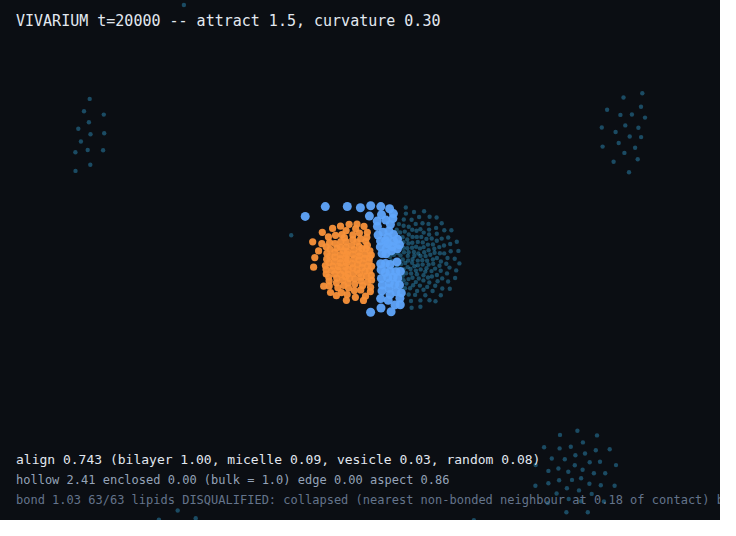
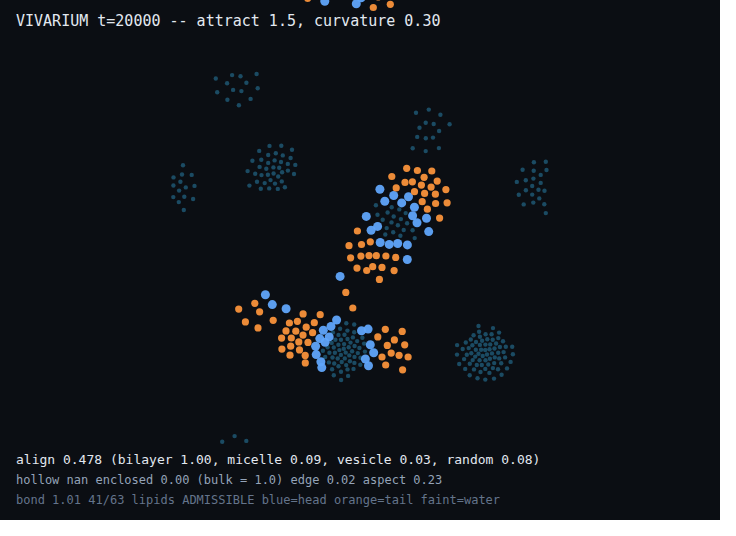
vivarium: correct the curvature sign -- dirn IS YLZ's r_hat, negating it inverted the leaflets
With the max-preserving form in place the run produced align 0.904 against a bilayer reference of
1.00, i.e. a strong bilayer signature, but the render showed the leaflets INVERTED: heads meeting in
the middle and tails facing the water. That is a reverse bilayer, not a membrane in solvent.

Traced to the direction convention. Vivarium's `dirn` is (p_i - p_j)/|.|, which is already YLZ's
r_hat_ij = (r_i - r_j)/r, and is the same convention under which beta = +0.1 gave heads outward
1.000 in the two-species reference. The implementation negated it, flipping the odd term.

The alignment metric cannot distinguish an inverted bilayer from a correct one -- both are two
opposed leaflets -- so the sign now has its own test. The first version of that test asserted on the
SOURCE TEXT ("rh = dirn" in pack.py), which is reward hacking and also broke in the bazel sandbox
where the file is not at a relative path. Replaced with a behavioural test: two lipids side by side,
heads tilted apart versus tilted together, asserting positive curvature scores the splayed pair
higher.

Claude-Session: https://claude.ai/code/session_017Ld9DgPtjwxx7hhxTDgxgL

diff --git a/projects/vivarium/tests/test_curvature.py b/projects/vivarium/tests/test_curvature.py
@@ -141,3 +141,38 @@ def test_engine_weight_never_exceeds_one():
     dist = np.sqrt((delta ** 2).sum(-1) + 1e-12)
     w = e._curvature_weight(delta / dist[..., None])
     assert w.max() <= 1.0 + 1e-9, f"weight exceeds 1 ({w.max():.4f}); cohesion can grow"
+
+
+def test_positive_curvature_prefers_heads_splayed_outward():
+    """Sign convention, tested by BEHAVIOUR rather than by reading the source.
+
+    A negated r_hat still yields a strong bilayer signature -- align 0.904 was measured -- but with
+    the leaflets INVERTED: heads meeting in the middle, tails facing the solvent. The alignment
+    metric cannot tell those apart, so the sign needs its own assertion.
+
+    Two lipids side by side along x. SPLAYED means each head tilts away from the other (the convex
+    arrangement a vesicle's outer leaflet has); CONVERGENT means each head tilts toward the other.
+    A positive curvature must score the splayed pair higher.
+    """
+    e = _molecular(0.25)
+    pd = e.pd
+    a, b = e._mol[0], e._mol[1]
+
+    def weight(tilt):
+        P = e.X[:, :pd]
+        for mol, cx, sgn in ((a, -1.0, -1.0), (b, +1.0, +1.0)):
+            axis = np.zeros(pd)
+            axis[0] = sgn * np.sin(tilt)
+            axis[1] = np.cos(tilt)
+            P[mol[0]] = np.array([cx, 0.0])[:pd] + 0.5 * axis
+            for k in mol[1:]:
+                P[k] = np.array([cx, 0.0])[:pd] - 0.5 * axis
+        delta = P[:, None, :] - P[None, :, :]
+        delta -= e.L * np.round(delta / e.L)
+        dist = np.sqrt((delta ** 2).sum(-1) + 1e-12)
+        return e._curvature_weight(delta / dist[..., None])[a[0], b[0]]
+
+    splayed, convergent = weight(+0.5), weight(-0.5)
+    assert splayed > convergent, (
+        f"positive curvature must favour heads splayed outward "
+        f"(splayed {splayed:.4f} vs convergent {convergent:.4f}); the r_hat sign is inverted")

diff --git a/projects/vivarium/pack.py b/projects/vivarium/pack.py
@@ -358,7 +358,12 @@ class PackEngine:
         u = self._axis_signed()
         has = (np.linalg.norm(u, axis=1) > 0.0)
         both = has[:, None] & has[None, :]
-        rh = -dirn                                   # unit vector from i toward j
+        # `dirn` is (p_i - p_j)/|.|, which is ALREADY YLZ's r_hat_ij = (r_i - r_j)/r and matches the
+        # convention under which beta = +0.1 gave heads outward in the two-species reference.
+        # Negating it here inverted the sign of the odd term and produced an INVERTED bilayer:
+        # align 0.904 (strongly bilayer-like) but with heads meeting in the middle and tails facing
+        # the water, which is a reverse bilayer, not a membrane in solvent.
+        rh = dirn
         ci = np.einsum("ic,ijc->ij", u, rh)          # u_i . r_hat
         cj = np.einsum("jc,ijc->ij", u, rh)          # u_j . r_hat
         q = (u @ u.T) - ci * cj
